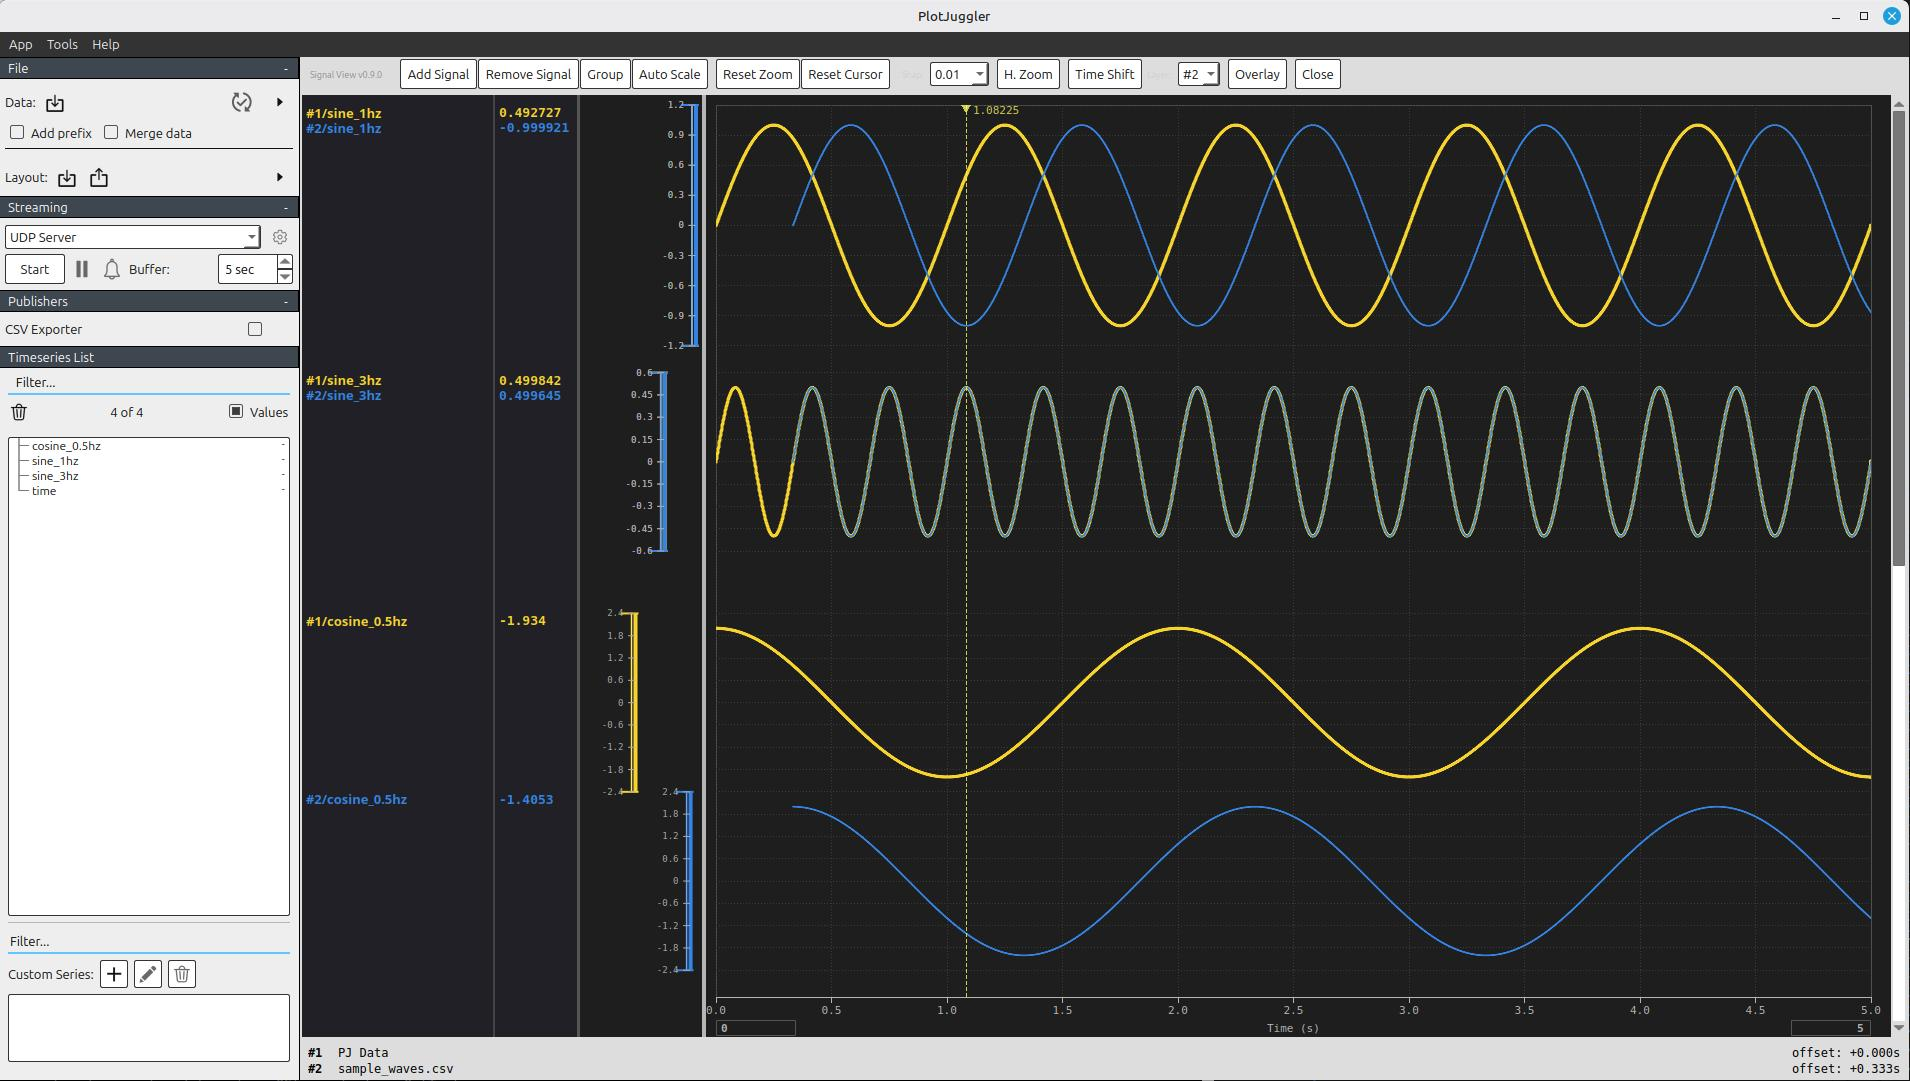
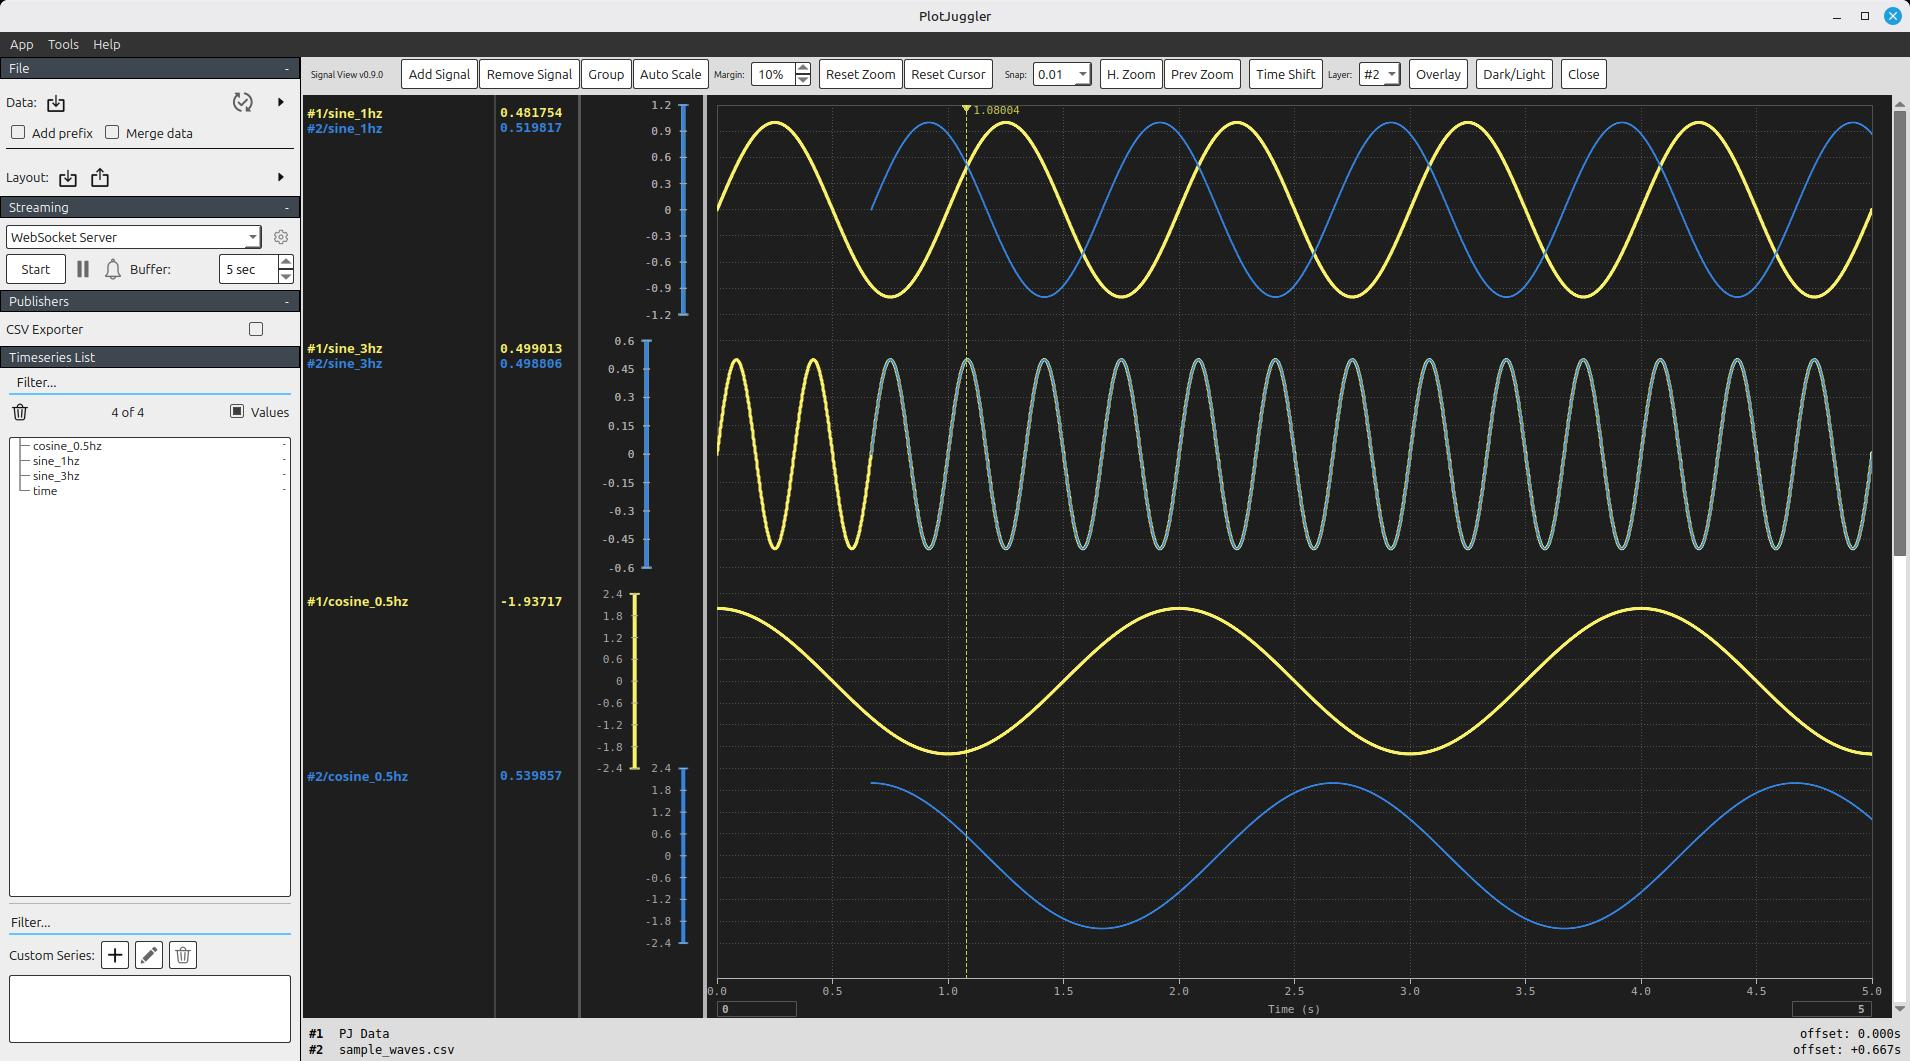
Bump version to v1.0.0 (#28)

diff --git a/src/signal_view_widget.cpp b/src/signal_view_widget.cpp
@@ -27,7 +27,7 @@
 #include <map>
 #include <numeric>
 
-static constexpr const char* PLUGIN_VERSION = "0.9.0";
+static constexpr const char* PLUGIN_VERSION = "1.0.0";
 
 // Shared style option definitions used by onEditYRange and onStyleLayer.
 struct LineStyleOption {
